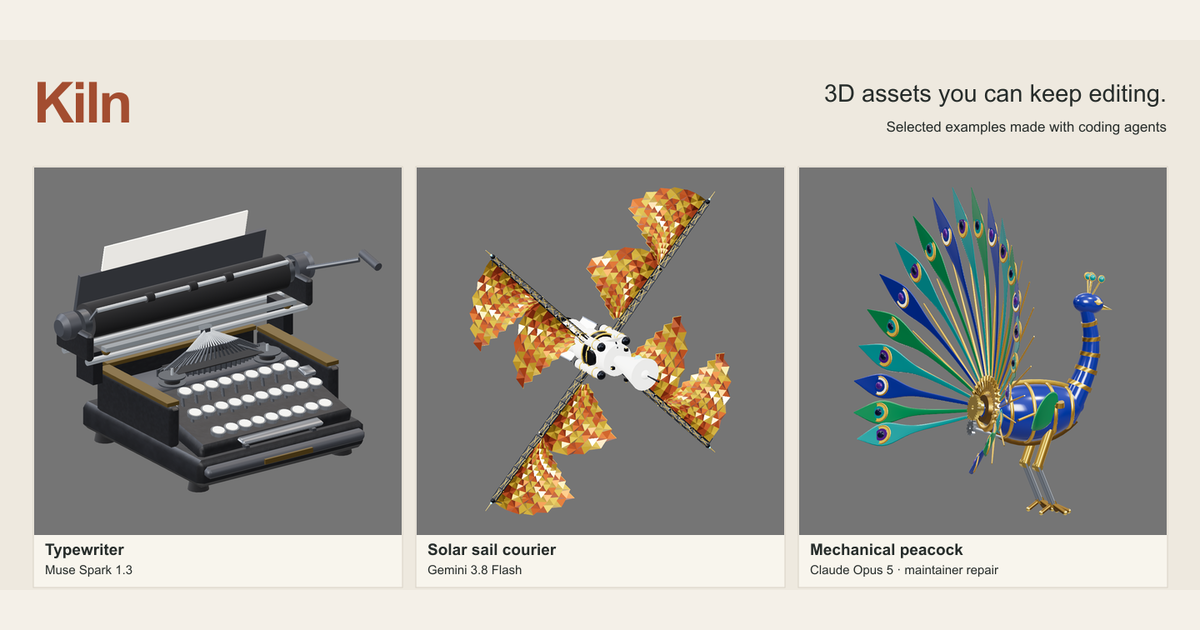
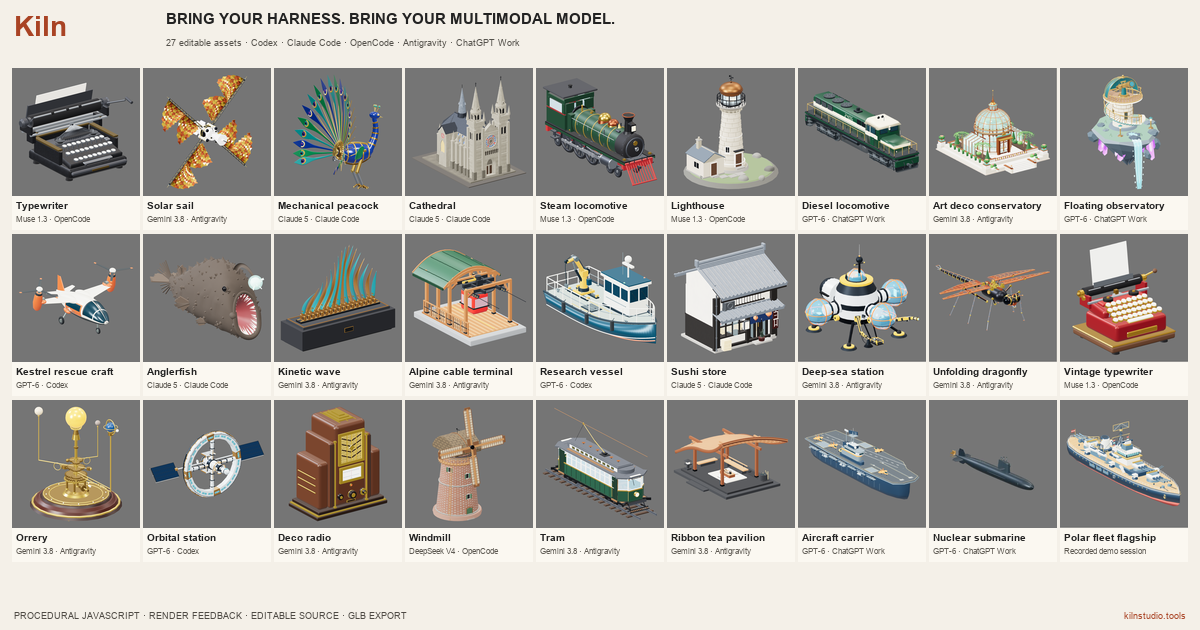
Show full Kiln gallery in social preview (#110)

diff --git a/site/index.html b/site/index.html
@@ -25,7 +25,7 @@
     <meta property="og:image:height" content="630" />
     <meta
       property="og:image:alt"
-      content="Kiln examples: a procedural typewriter, solar sail courier, and mechanical peacock"
+      content="27 Kiln assets built across coding-agent harnesses and multimodal models"
     />
     <meta name="twitter:card" content="summary_large_image" />
     <meta name="twitter:title" content="Kiln | Editable 3D assets for coding agents" />
@@ -36,7 +36,7 @@
     <meta name="twitter:image" content="https://kilnstudio.tools/kiln-social.png" />
     <meta
       name="twitter:image:alt"
-      content="Kiln examples: a procedural typewriter, solar sail courier, and mechanical peacock"
+      content="27 Kiln assets built across coding-agent harnesses and multimodal models"
     />
     <link rel="canonical" href="https://kilnstudio.tools/" />
     <link rel="alternate" type="text/plain" href="./llms.txt" title="Kiln agent reading guide" />
